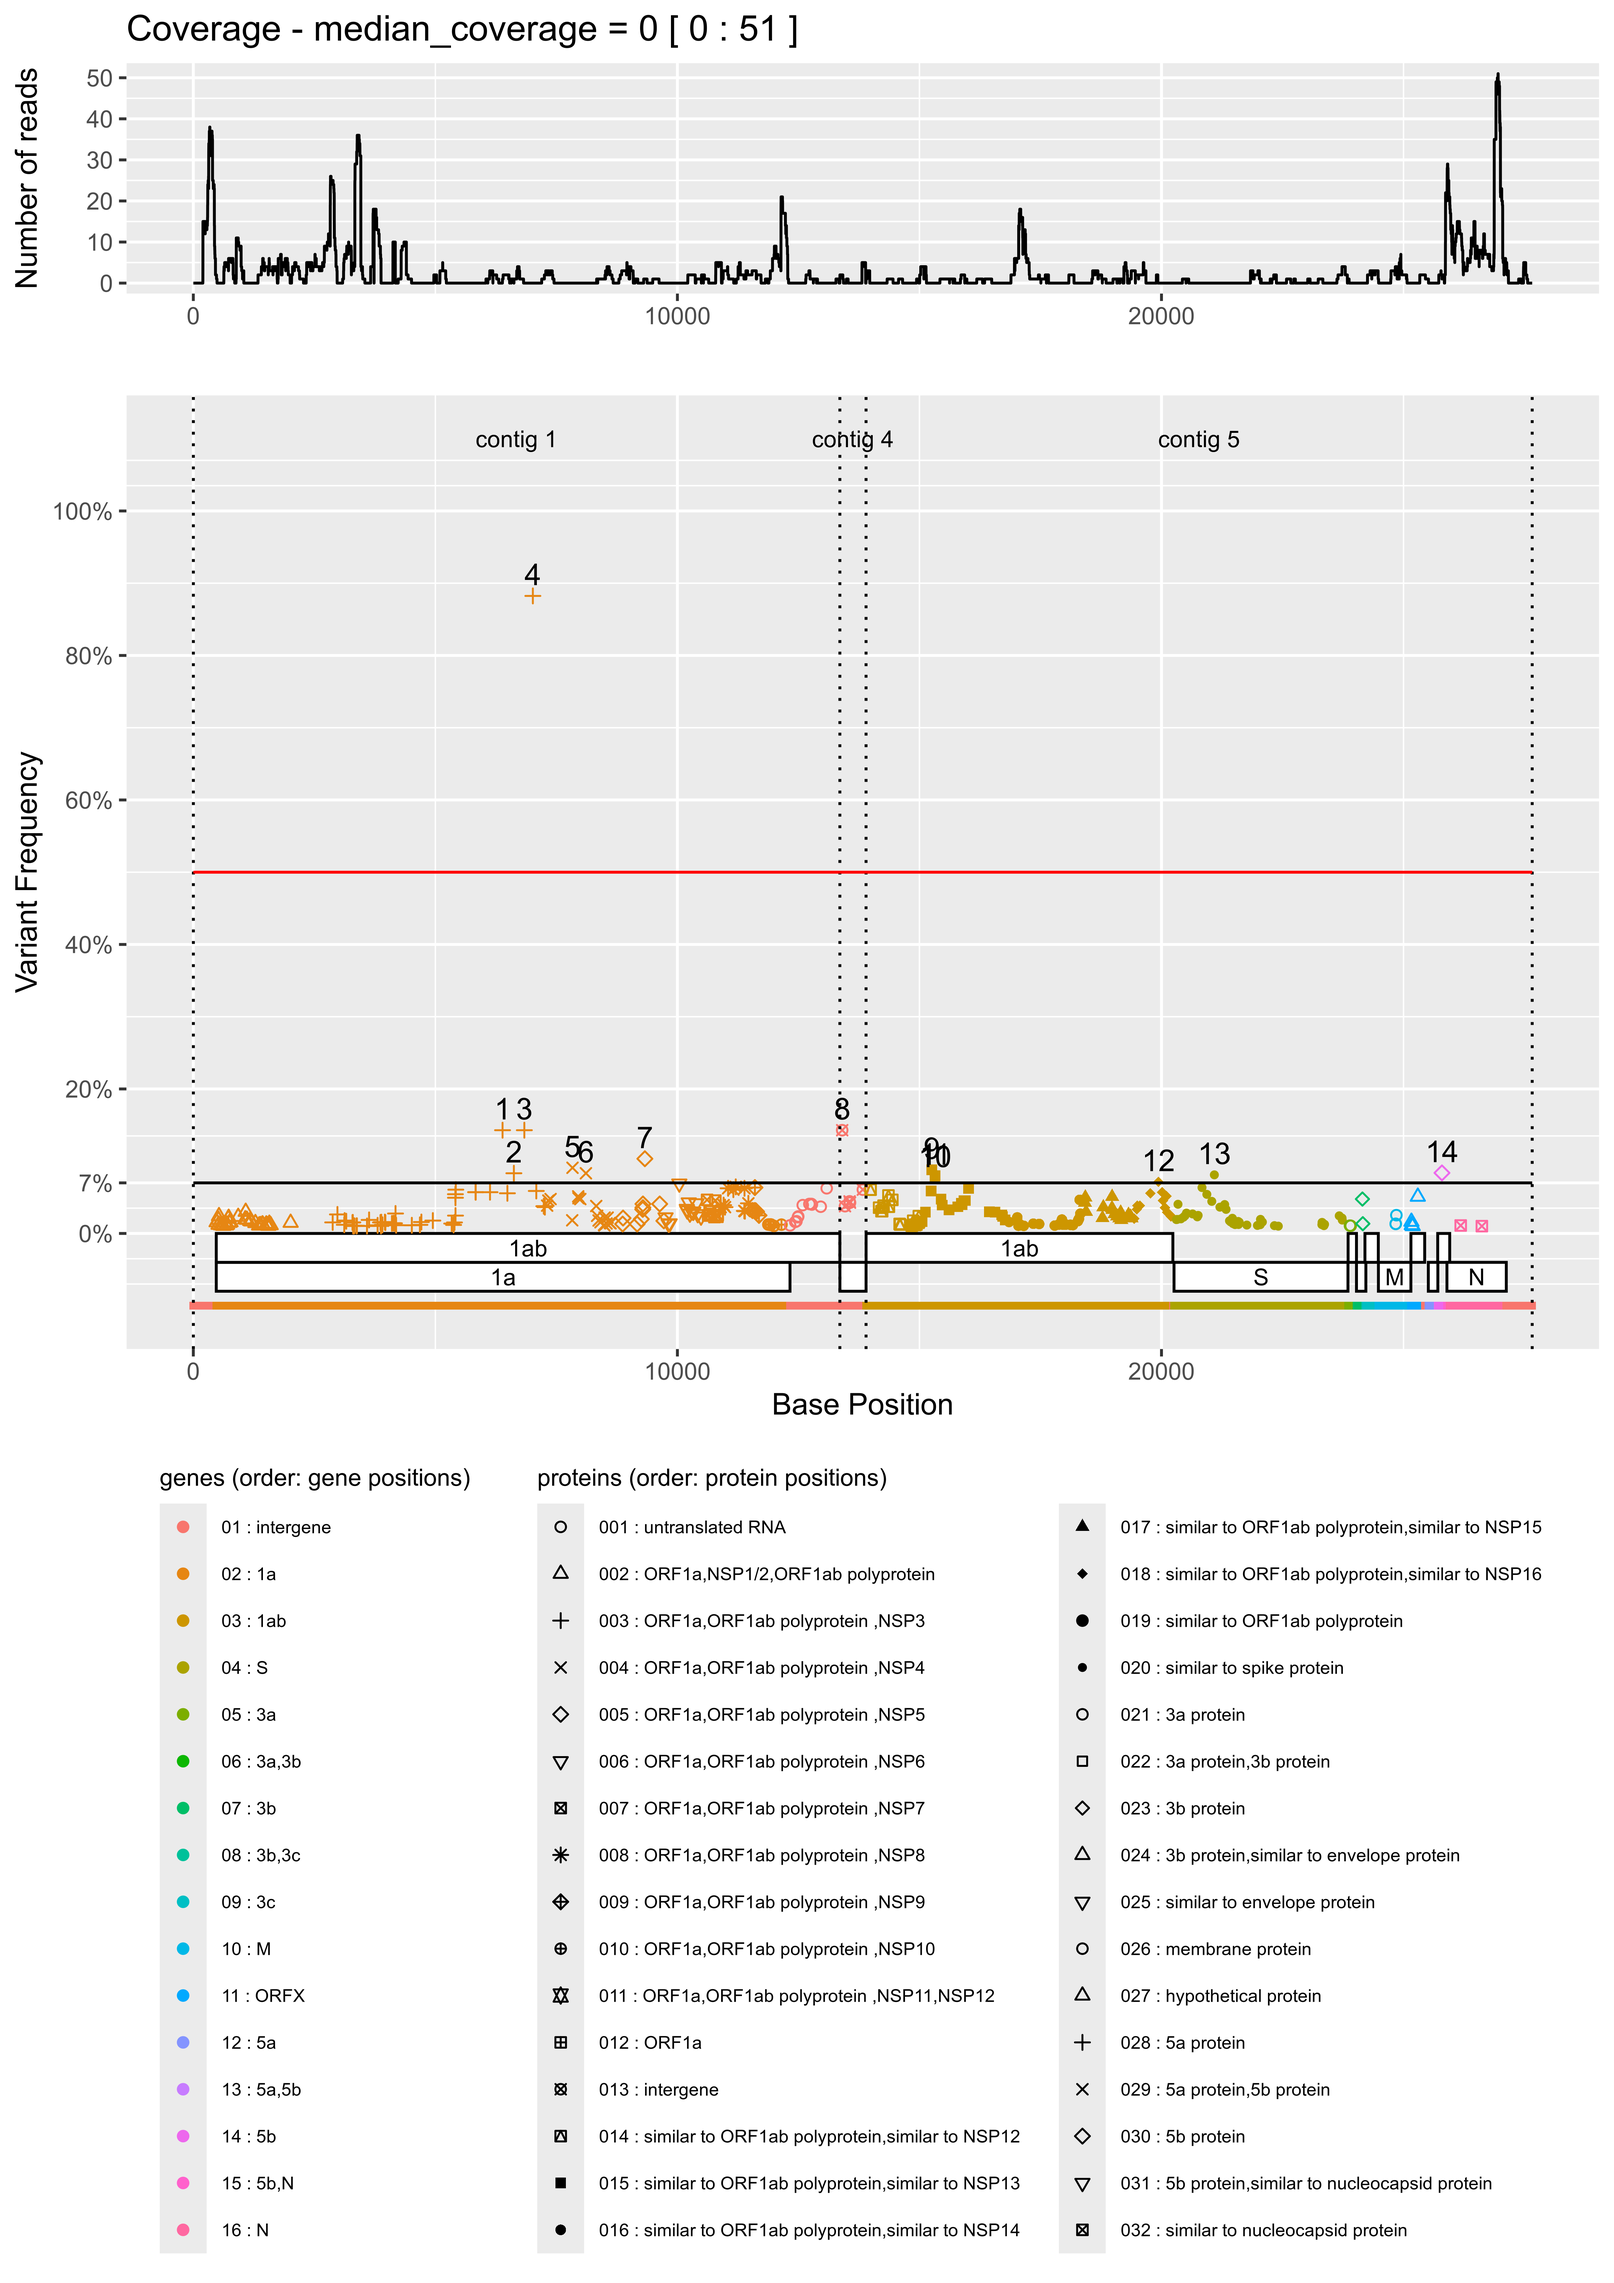
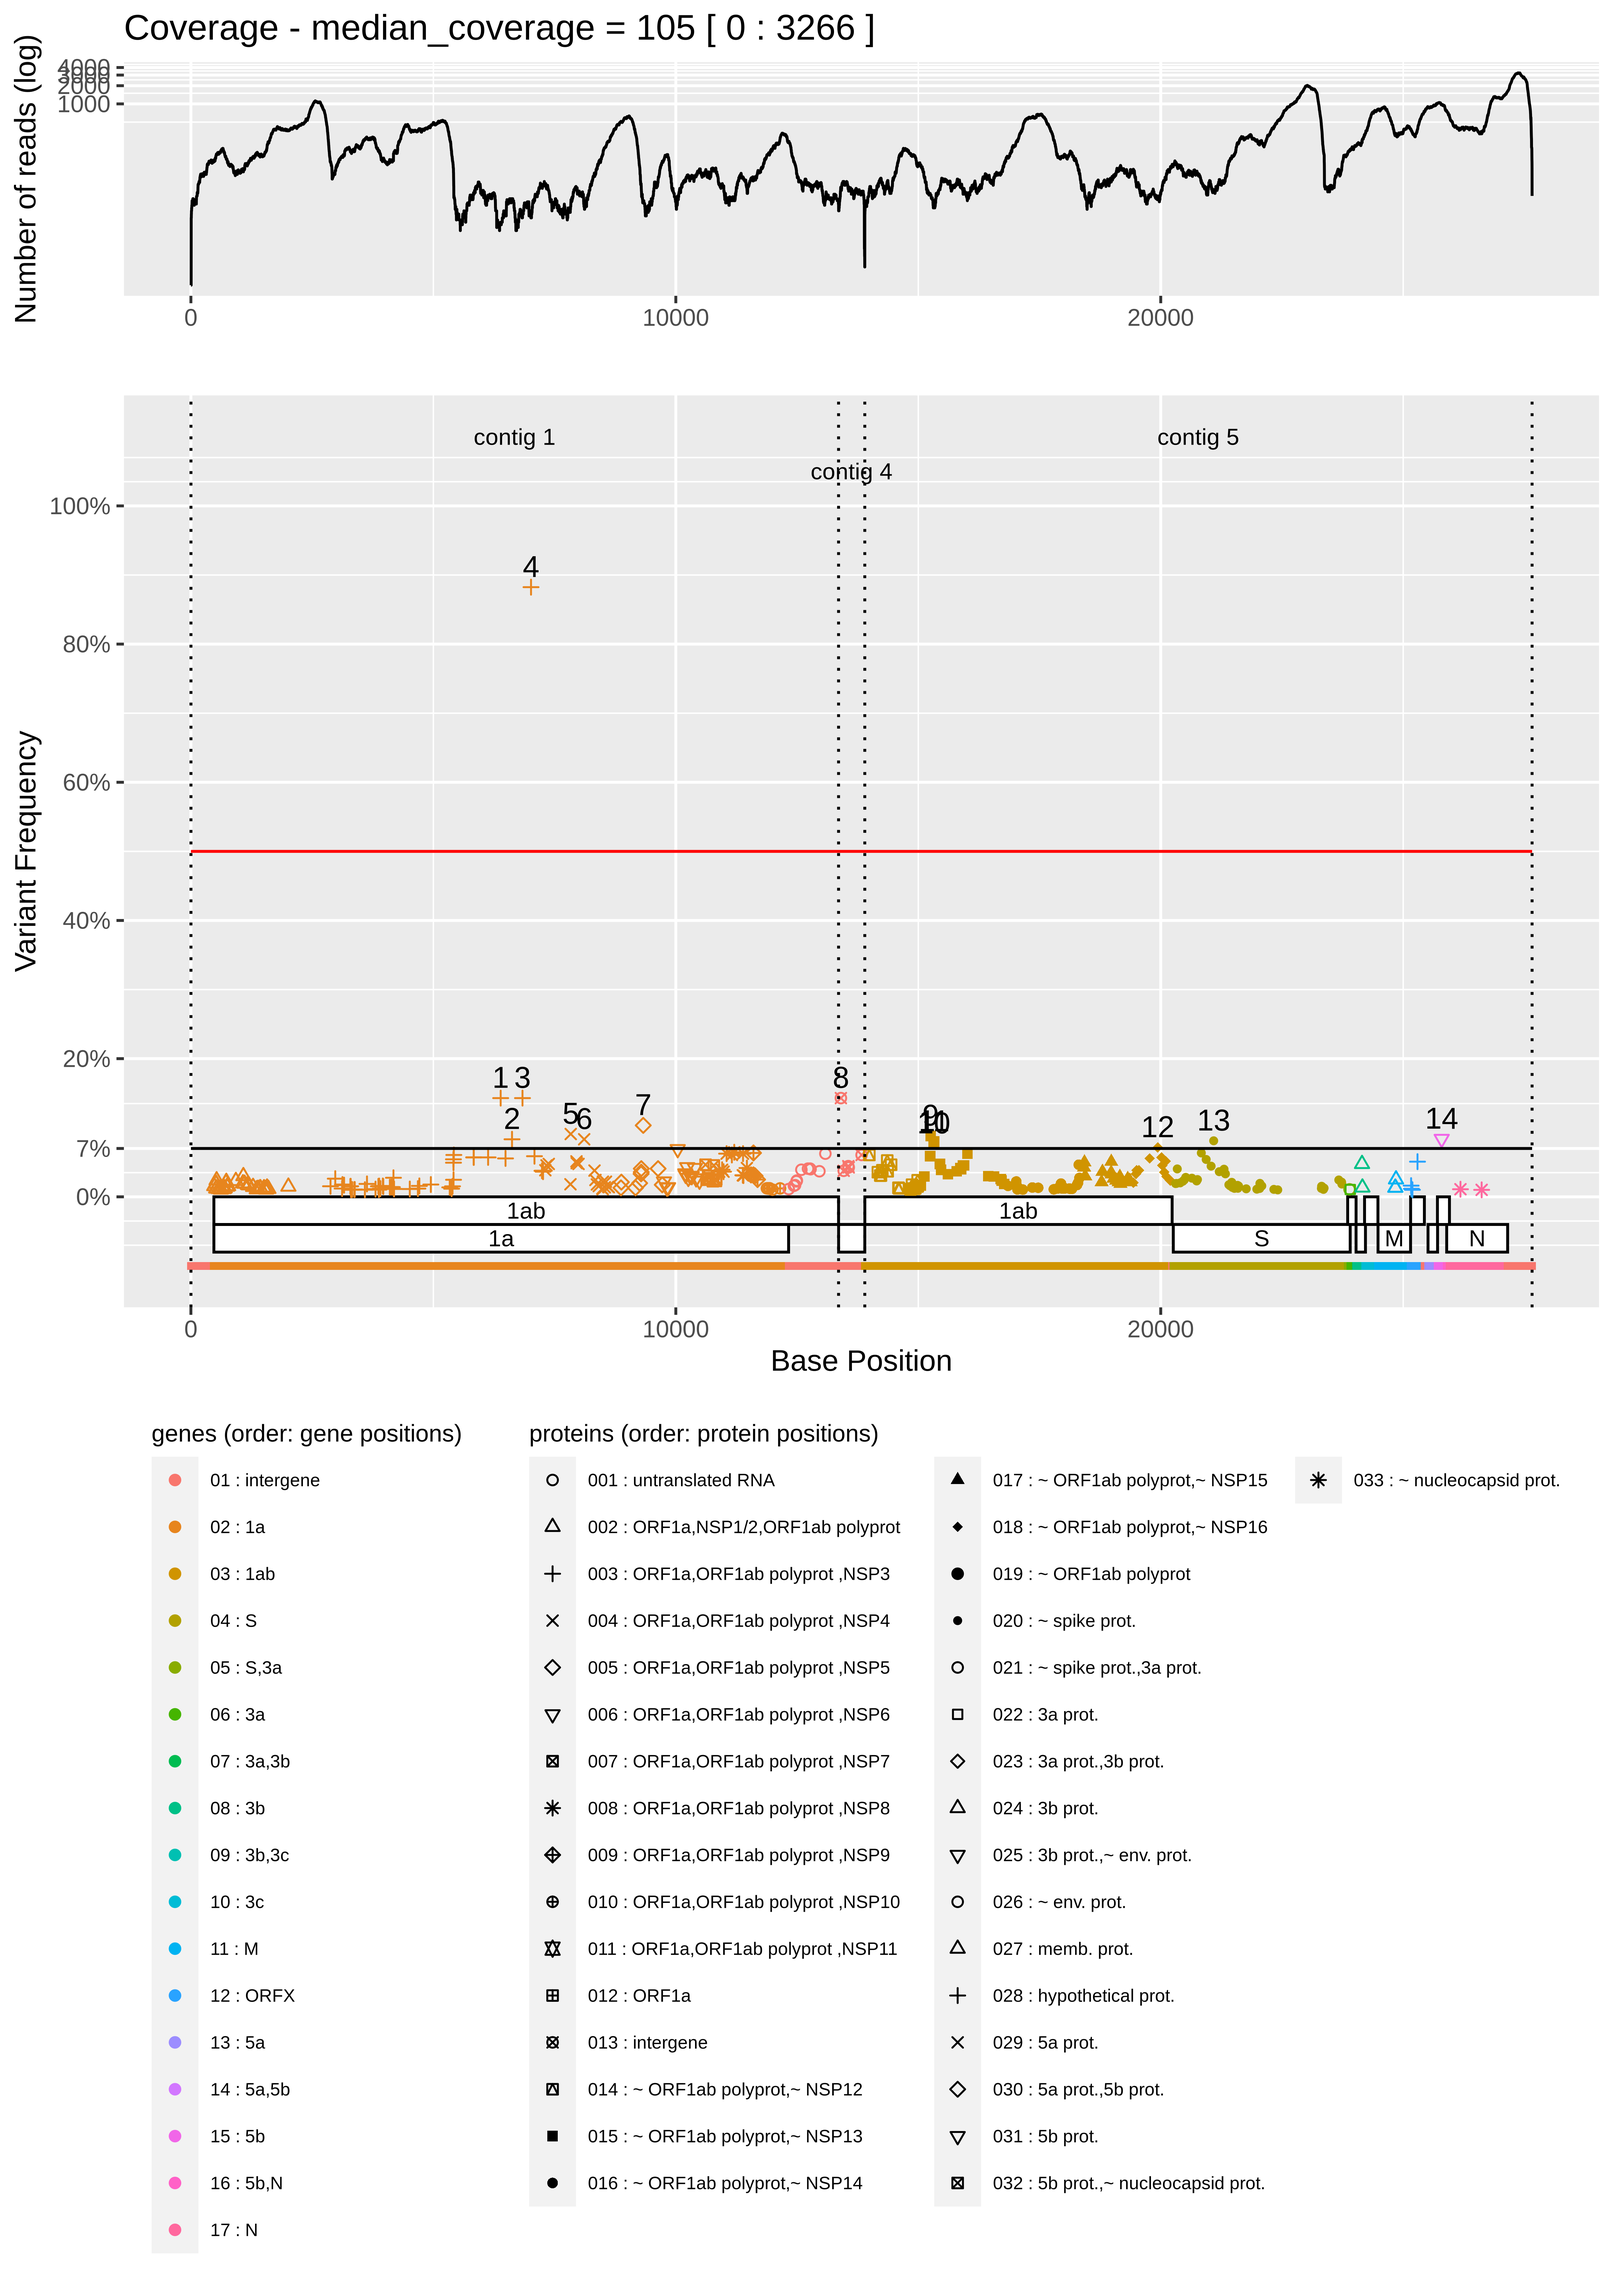
update figure and tsv output to fit last version

diff --git a/README.md b/README.md
@@ -87,21 +87,21 @@ Example is obtained on Turkey Coronavirus sequencing data, with as reference, th
 
 * tsv summary file:
 ```
-indice	position	ref	alt	freq	gene	prot	lseq	rseq	isHomo*
-1	6388	A	G	0.1429	1a	ORF1a,ORF1ab polyprotein [exception ribosomal slippage],NSP3  putative papain-like protease	GTATTGTAGAAATTGTGATG	GTATGGTCATCAAAATACAT	no
-2	6622	A	G	0.0833	1a	ORF1a,ORF1ab polyprotein [exception ribosomal slippage],NSP3  putative papain-like protease	GAAGAAAGCTGTTTTTCTTA	GGAAGCATTGAAATGTGAAC	no
-3	6838	A	G	0.1429	1a	ORF1a,ORF1ab polyprotein [exception ribosomal slippage],NSP3  putative papain-like protease	AGTTTGTGACATTTTGTCTA	TATAATTTCTGTAGATACTG	no
-4	7014	R	A	0.8824	1a	ORF1a,ORF1ab polyprotein [exception ribosomal slippage],NSP3  putative papain-like protease	TACCGTCATATGGTATAGAC	CTGATAAATTAACACCTCGT	no
-5	7833	G	A	0.0909	1a	ORF1a,ORF1ab polyprotein [exception ribosomal slippage],NSP4	ATTGTTTTAATGGTGATAAT	ATGCACCTGGAGCTTTACCA	no
-6	8110	T	A	0.0833	1a	ORF1a,ORF1ab polyprotein [exception ribosomal slippage],NSP4	AGAACTTATGTTTAATATGG	TAGTACATTCTTTACTGGTG	no
-7	9328	A	G	0.1034	1a	ORF1a,ORF1ab polyprotein [exception ribosomal slippage],NSP5  putative 3C-like proteinase	TGCATTACACACTGGAACGG	CCTACATGGTGAGTTCTATG	no
-8	13404	A	C	0.1429	intergene	intergene	GTTAGTGGGAACATCCAATA	TTTAGTTGATCTTAGAACGT	no
-9	15255	A	T	0.0882	1ab	similar to ORF1ab polyprotein,similar to NSP13:GBSEP:putative helicase	CTGTGGTAATCATAAACCAA	GTTGTCAATACCGTTAGTAT	no
-10	15319	C	T	0.0769	1ab	similar to ORF1ab polyprotein,similar to NSP13:GBSEP:putative helicase	TACAGGGCTAATTGTGCTGG	AGCGAAAATGTTGATGATTT	no
-11	15326	A	G	0.08	1ab	similar to ORF1ab polyprotein,similar to NSP13:GBSEP:putative helicase	CTAATTGTGCTGGCAGCGAA	ATGTTGATGATTTTAATCAA	yes
-12	19937	G	A	0.0714	1ab	similar to ORF1ab polyprotein,similar to NSP16:GBSEP:putative 2-O-ribose methyltransferase	TAACAGAGACAAGTTGGCAC	AAAATTTATATGACATTGCA	no
-13	21092	T	C	0.0811	S	similar to spike protein	TTACGTGGTGATAACACTGG	GTTTCTTATGATTATCAGTG	no
-14	25794	TT	AA	0.0838	5b	5b protein	AGGATTAGATTGTGTTTACT	CTTAACAAAGCAGGACAAGC	no
+indice	position	position_ori	ref	alt	freq	gene	prot	lseq	rseq	isHomo*
+1	6388	6388	A	G	0.1429	1a	ORF1a,ORF1ab polyprotein [exception ribosomal slippage],NSP3  putative papain-like protease	GTATGGTCATCAAAATACAT	GTATTGTAGAAATTGTGATG	no
+2	6622	6622	A	G	0.0833	1a	ORF1a,ORF1ab polyprotein [exception ribosomal slippage],NSP3  putative papain-like protease	GGAAGCATTGAAATGTGAAC	GAAGAAAGCTGTTTTTCTTA	no
+3	6838	6838	A	G	0.1429	1a	ORF1a,ORF1ab polyprotein [exception ribosomal slippage],NSP3  putative papain-like protease	TATAATTTCTGTAGATACTG	AGTTTGTGACATTTTGTCTA	no
+4	7014	7014	R	A	0.8824	1a	ORF1a,ORF1ab polyprotein [exception ribosomal slippage],NSP3  putative papain-like protease	CTGATAAATTAACACCTCGT	TACCGTCATATGGTATAGAC	no
+5	7833	7833	G	A	0.0909	1a	ORF1a,ORF1ab polyprotein [exception ribosomal slippage],NSP4	ATGCACCTGGAGCTTTACCA	ATTGTTTTAATGGTGATAAT	no
+6	8110	8110	T	A	0.0833	1a	ORF1a,ORF1ab polyprotein [exception ribosomal slippage],NSP4	TAGTACATTCTTTACTGGTG	AGAACTTATGTTTAATATGG	no
+7	9328	9328	A	G	0.1034	1a	ORF1a,ORF1ab polyprotein [exception ribosomal slippage],NSP5  putative 3C-like proteinase	CCTACATGGTGAGTTCTATG	TGCATTACACACTGGAACGG	no
+8	13404	48	A	C	0.1429	intergene	intergene	TTTAGTTGATCTTAGAACGT	GTTAGTGGGAACATCCAATA	no
+9	15255	1358	A	T	0.0882	1ab	similar to ORF1ab polyprotein,similar to NSP13:GBSEP:putative helicase	GTTGTCAATACCGTTAGTAT	CTGTGGTAATCATAAACCAA	no
+10	15319	1422	C	T	0.0769	1ab	similar to ORF1ab polyprotein,similar to NSP13:GBSEP:putative helicase	AGCGAAAATGTTGATGATTT	TACAGGGCTAATTGTGCTGG	no
+11	15326	1429	A	G	0.08	1ab	similar to ORF1ab polyprotein,similar to NSP13:GBSEP:putative helicase	ATGTTGATGATTTTAATCAA	CTAATTGTGCTGGCAGCGAA	no
+12	19937	6040	G	A	0.0714	1ab	similar to ORF1ab polyprotein,similar to NSP16:GBSEP:putative 2-O-ribose methyltransferase	AAAATTTATATGACATTGCA	TAACAGAGACAAGTTGGCAC	no
+13	21092	7195	T	C	0.0811	S	similar to spike protein	GTTTCTTATGATTATCAGTG	TTACGTGGTGATAACACTGG	no
+14	25794	11897	TT	AA	0.0838	5b	5b protein	CTTAACAAAGCAGGACAAGC	AGGATTAGATTGTGTTTACT	no
 
 *NB: an homopolymer region is set to 'yes' if there is a succession of at least 3 identical nucleotides.
      it looks like a restrictive measure, but Ion Torrent and Nanopore sequencing are very bad on such region, so make sure you verify these variants.
